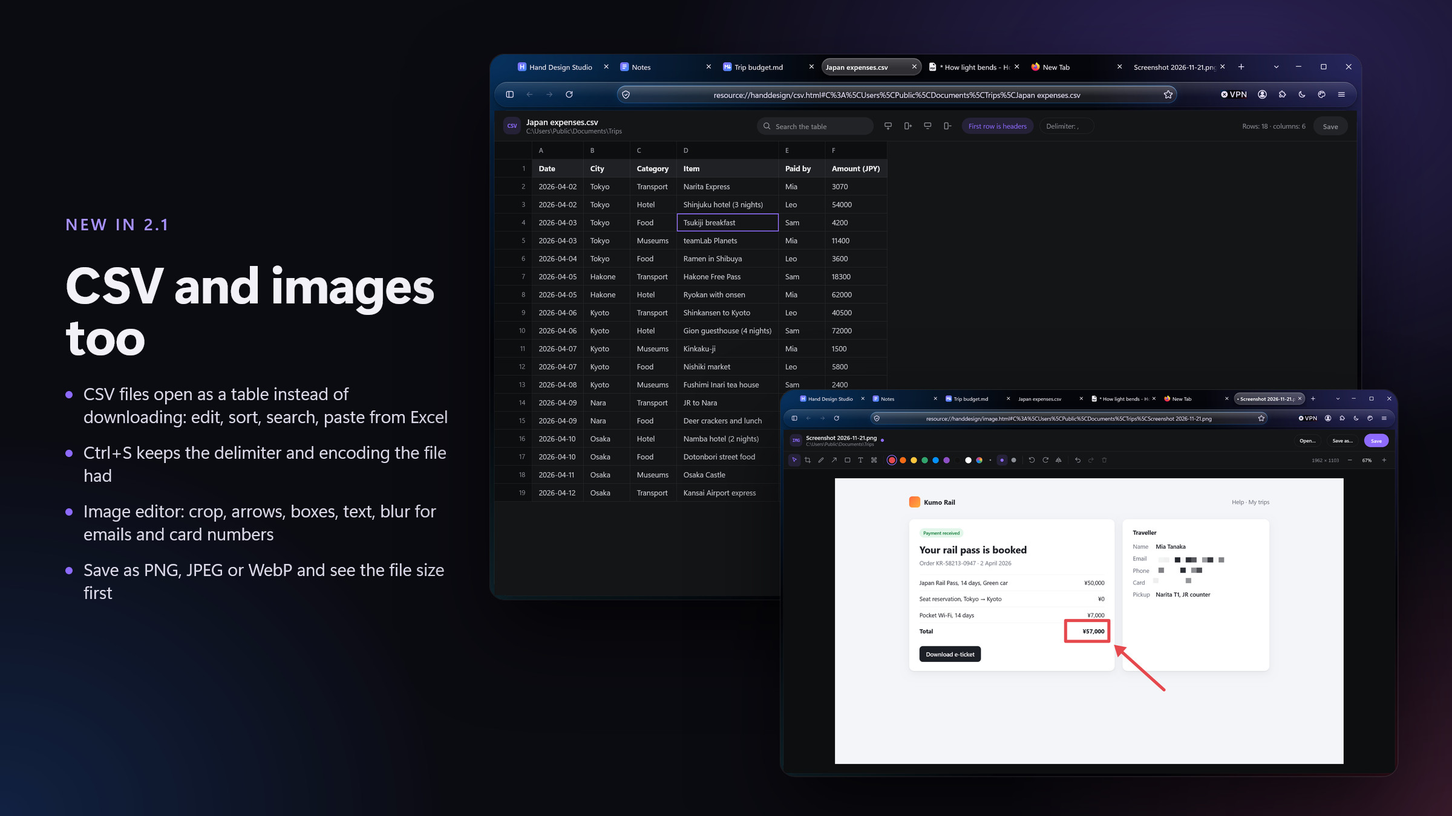
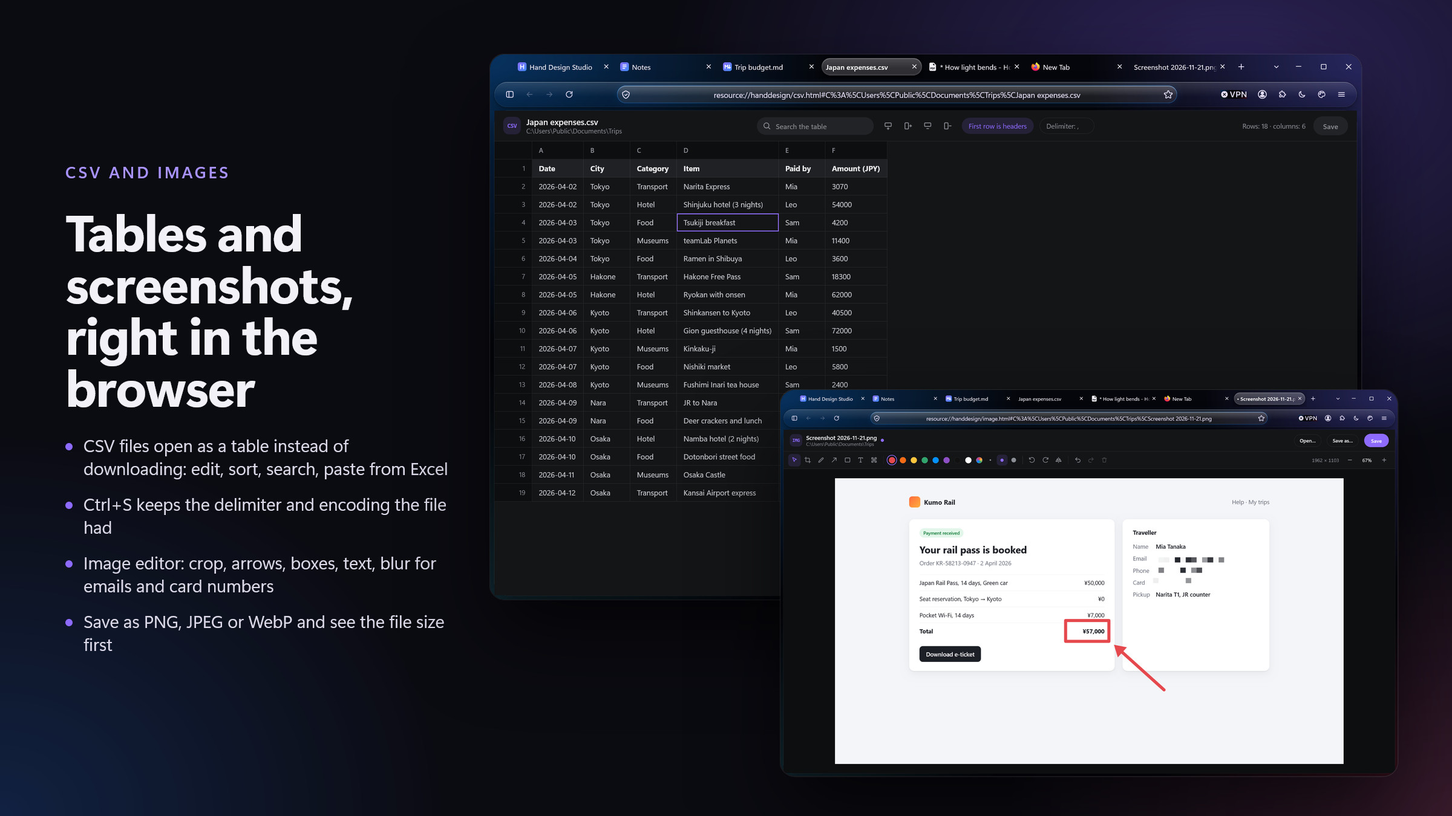
Add files via upload

Changed region(s): [[0.0312, 0.2489, 0.3125, 0.7778], [0.0625, 0.1867, 0.1562, 0.2178]]

diff --git a/release-notes/firefox/v3.0.0.md b/release-notes/firefox/v3.0.0.md
@@ -1,0 +1,76 @@
+<div align="center">
+
+# Hand Design 3.0.0
+
+**A redesign for Floorp, Firefox and Firefox forks** · 2026-11-25
+
+![Hand Design](https://raw.githubusercontent.com/WiWaSu/Hand-Design---browsers-redesign-/main/docs/hero.jpg)
+
+</div>
+
+## Что нового / What's new
+
+**English summary:** Notes can import from Notion (Markdown & CSV export), Evernote (.enex), Google Keep (Google Takeout) and any folder of Markdown files such as an Obsidian vault or a Joplin export. Imported notes land in their own folder under Import, links between pages turn into [[links]], images and attachments come along, tags and dates become note properties. The quick switcher (Ctrl+O) got a proper look, and a note with properties now opens with them shown as a card instead of raw text. The password manager opens as a compact window next to the button you pressed instead of a separate tab: search, copy, show, edit, add and delete passwords, with an optional primary password and a lock button. Now Bar hides while the video plays in a picture-in-picture window. Studio is redesigned: sections in a sidebar, search across all settings, a theme gallery, plain-language labels and hints, and a live preview on the side that shows every change and highlights where the hovered setting lives in the window. Every theme now has its own icon pack (24 in all) that redraws every icon in the browser and in Hand Design; any pack can be used with any theme (Studio → Icons), and it switches instantly.
+
+- Импорт заметок: кнопка со стрелкой внизу списка заметок, рядом с «Сменить папку». Откуда можно забрать:
+  - Notion — экспорт «Markdown & CSV» (файл .zip). Страницы и подстраницы сохраняют вложенность, ссылки между ними становятся `[[ссылками]]`, длинные номера из названий убираются, базы данных превращаются в заметки с таблицей, картинки переносятся.
+  - Evernote — экспорт блокнота (файл .enex). Сохраняются оформление, списки, чекбоксы, таблицы, картинки и вложения, а также теги, даты создания и изменения и адрес источника.
+  - Google Keep — архив Google Takeout (файл .zip). Списки становятся чекбоксами, ярлыки — тегами, картинки переносятся, архивные заметки уходят в папку «Архив», закреплённые остаются закреплёнными. Удалённые заметки пропускаются.
+  - Папка с файлами .md — хранилище Obsidian, экспорт Joplin в Markdown и любые другие заметки в Markdown. Служебные папки вроде `.obsidian` не копируются.
+- Импортированное ложится в отдельную папку «Импорт/Notion», «Импорт/Evernote» и так далее. Повторный импорт идёт в новую папку и ничего не перезаписывает.
+- Быстрый переход по заметкам (`Ctrl+O`) получил нормальный вид: окно по центру с полем поиска и списком. Раньше список выводился без оформления внизу страницы.
+- Заметка со свойствами (`---` в начале файла) открывается с ними в виде карточки. Раньше курсор вставал в начало, и свойства показывались сырым текстом.
+- Менеджер паролей открывается компактным окном, а не отдельной вкладкой. Окно встаёт у края с той стороны, где нажата кнопка: ключ в боковой панели Floorp внизу справа — окно внизу справа, пункт «Пароли» в меню ☰ — вверху справа.
+  - Сверху поиск, ниже пароли для открытого сайта, потом все остальные. Пароль копируется прямо из списка.
+  - В карточке пароля: копирование логина и пароля, показ пароля, «Изменить», «Удалить» с подтверждением, переход на сайт.
+  - Кнопки в заголовке: добавить пароль, настройки паролей, «Развернуть» (полный менеджер во вкладке), закрыть. Размер окна меняется уголком и запоминается.
+  - Перед показом или копированием пароля браузер, как и раньше, просит пароль Windows.
+  - Пароли и так хранятся зашифрованными. По желанию можно задать основной пароль, тогда без него их не откроет ни другой браузер, ни другая программа на компьютере. Когда он задан, в заголовке появляется замок «Заблокировать».
+  - Окно берёт цвета, скругления и шрифт из темы. Выключается в Studio → Пароли.
+- Now Bar не появляется, если видео вынесено в маленькое окно «Картинка в картинке»: у этого окна свои кнопки.
+- Паки значков: у каждой из 24 тем свой набор, и он перерисовывает все значки браузера и Hand Design. Это панель и адресная строка, вкладки и кнопки окна, меню ☰ и меню правой кнопки, боковые панели Firefox и Floorp, загрузки, разрешения сайтов, настройки и дополнения, окно паролей, Now Bar, заметки, таблицы, редактор картинок, просмотрщик PDF.
+  - У главных значков (ключ, замок, дом, поиск, настройки, звезда, папка, корзина, колокольчик, глаз, глобус, щит, стрелки, часы, загрузки и других, около 55) четыре разных рисунка. Ключ бывает классическим, горизонтальным с квадратными бородками, вертикальным с круглым ушком или ключом-картой. Настройки — шестерёнкой, гайкой, цветком или ползунками. Часы — циферблатом или секундомером. Каждая тема берёт свой рисунок и рисует его в своём стиле.
+  - Паки отличаются формой, а не только цветом и толщиной:
+    - Retro 98 — пиксельные с тенью, Terminal — пиксельные в рамке-скобках, Nothing — точечная матрица;
+    - Cyberpunk — граненые с наклоном, Arctic — граненые «кристаллы» в шестиугольнике;
+    - One UI и Latte — залитые с прорезями, High Contrast — вырезаны из плитки;
+    - Material, Sakura, Mint и Ocean — на плитках: квадратной, круглой, шестиугольной, скруглённой;
+    - macOS — в контурной рамке, Rosé — в тонком круге, Fjord — в рамке-скобках;
+    - Night Drive, Midnight и Synthwave — полые двойные линии (у Synthwave ещё и с наклоном), Ember — наклонные залитые;
+    - Paper — нарисованы карандашом, Forest — от руки и с шестиугольниками, Aero — со стеклянным ореолом.
+  - У VPN у каждого состояния свой значок: выключен, включён, пауза, сайт-исключение, ошибка.
+  - Ещё четыре набора, нарисованных от руки: «Набросок» (двойная неровная линия со штриховкой), «Маркер» (толстый фломастер), «Каракули» (три небрежных прохода), «Кисть» (жирный мазок с тонким вторым). Их можно поставить к любой теме.
+  - В пак попали и значки диалогов и служебных страниц: категории настроек и дополнений, значки контейнеров, менеджер паролей Firefox, страница защиты, вкладки «Сведений о странице», сортировка в таблицах.
+  - Любой пак можно поставить к любой теме: Studio → Значки. Не выбрано — пак текущей темы. Значки меняются сразу, без перезапуска, предпросмотр показывает пак при наведении на карточку.
+  - Не меняются только логотипы, анимации загрузки, значки сайтов и значки рабочих пространств, которые вы выбираете сами.
+- Полоска загрузки страницы своя у каждой темы: пиксельные блоки Retro 98, сегменты Terminal, точки Nothing с красной головой, волна Ocean, огонь Ember, неон Synthwave, бегущие косые полосы Cyberpunk и другие. Любую можно поставить к любой теме: Studio → Плашки и полоски → Вид полоски загрузки.
+- Studio переделана.
+  - Слева меню по разделам: Внешний вид, Окно браузера, Новая вкладка, Функции, Система. У каждого пункта значок из текущего пака, точка рядом значит, что в разделе что-то изменено.
+  - Сверху поиск: «прозрач», «вкладк», «шрифт» оставляют только подходящие настройки.
+  - Справа предпросмотр: уменьшенное окно браузера с вкладками, адресной строкой, закладками, новой вкладкой, меню правой кнопки и Now Bar. Он не уезжает при прокрутке. Наведите на настройку, и в окне подсветится место, к которому она относится. Наведите на тему или готовый набор, и окно примерит его, не меняя настоящий браузер.
+  - Темы выбираются из галереи: на каждой карточке маленькое окно в цветах темы.
+  - Все названия и подсказки переписаны простыми словами, про каждую настройку сказано, что именно она меняет. Настройки, которые лежали не на месте, переехали: прозрачность и скругление меню теперь в «Меню», кнопки панели и закладки — в «Панель и кнопки», Now Bar, плашка звонка и полоска загрузки — в «Плашки и полоски». Отдельная кнопка «Без скруглений» вверху убрана, переключатель остался в «Форме».
+  - GitHub, сохранение и загрузка настроек и «Сбросить всё» собраны в меню «⋯» в углу.
+  - Сохранённые настройки не сбрасываются: все прежние пункты на месте.
+- Настройки браузера (about:preferences): у выбранного раздела слева больше нет полоски, линия между меню и страницей убрана, меню стало шире, и длинные названия разделов не переносятся.
+
+## Скриншоты / Screenshots
+
+| | |
+|---|---|
+| ![Notes](https://raw.githubusercontent.com/WiWaSu/Hand-Design---browsers-redesign-/main/docs/feature-notes.jpg) | ![Theme details](https://raw.githubusercontent.com/WiWaSu/Hand-Design---browsers-redesign-/main/docs/feature-details.jpg) |
+| ![PDF and Markdown](https://raw.githubusercontent.com/WiWaSu/Hand-Design---browsers-redesign-/main/docs/feature-docs.jpg) | ![24 themes](https://raw.githubusercontent.com/WiWaSu/Hand-Design---browsers-redesign-/main/docs/themes.jpg) |
+
+## Установка / Install
+
+1. Скачайте **Hand-Design-Setup-v3.0.0.exe** ниже и запустите. / Download **Hand-Design-Setup-v3.0.0.exe** below and run it.
+2. Выберите тему и браузеры, нажмите «Установить». / Pick a theme and browsers, press Install.
+3. Перезапустите браузер. / Restart the browser.
+
+Если SmartScreen пишет «Система Windows защитила ваш компьютер», нажмите «Подробнее» → «Выполнить в любом случае»: у файла нет платной подписи. / If SmartScreen says "Windows protected your PC", click "More info" → "Run anyway": the file is not signed with a paid certificate.
+
+Уже стоит более старая версия — запустите установщик и нажмите «Обновить», настройки сохранятся. / Already installed — run the installer and press Update, your settings are kept.
+
+Без .exe: **Hand-Design-v3.0.0.zip** — распакуйте и запустите **Setup.cmd**. / Without the .exe: unzip **Hand-Design-v3.0.0.zip** and run **Setup.cmd**.
+
+[Все изменения / Full changelog](https://github.com/WiWaSu/Hand-Design---browsers-redesign-/blob/main/firefox/CHANGELOG.md)

diff --git a/release-notes/chrome/v1.0.0.md b/release-notes/chrome/v1.0.0.md
@@ -1,0 +1,46 @@
+<div align="center">
+
+# Hand Design for Chromium 1.0.0
+
+**A redesign for Chrome, Edge, Brave, Vivaldi, Opera and Yandex Browser** · 2026-11-23
+
+</div>
+
+## Что нового / What's new
+
+**Заметки, документы и 10 языков.** Из Firefox-версии 2.x перенесены заметки, редакторы файлов, детали тем и переводы.
+*English: Notes like in Obsidian, Markdown, CSV and image editors, Documents page, theme details with previews, 10 interface languages, theme picture behind the tab strip, update check at every start.*
+
+### Добавлено
+- Заметки (кнопка в быстрой панели, команда «Заметки Hand Design» на `chrome://extensions/shortcuts`). То же приложение, что в Firefox-версии: Live Preview, дерево папок, поиск, закреплённые, `[[ссылки]]` и упоминания, `#теги`, блоки `[!note]`, картинки, граф связей, быстрый переход `Ctrl+O`, заметка дня и шаблоны. Каждая заметка — обычный файл `.md` в папке, которую вы выберете; её можно открыть и в Obsidian. После перезапуска браузера Chrome один раз спросит разрешение на папку — кнопка «Открыть прошлую папку».
+- Редактор Markdown. Файл `.md`, открытый с компьютера, показывается оформленным: содержание, просмотр, рядом, текст, таблицы правятся прямо в документе. Файл, открытый через «Документы», сохраняется на место по `Ctrl+S`. Файл, открытый из проводника, в первый раз сохраняется через «Сохранить как»: Chrome не даёт записать в него иначе.
+- Редактор таблиц CSV. Файлы `.csv` и `.tsv` открываются таблицей вместо скачивания, с диска и из интернета. Кодировка UTF-8 или Windows-1251 сохраняется как была.
+- Редактор картинок: обрезка, поворот, стрелки, рамки, текст, размытие, сжатие и смена формата. Открывается для картинок с компьютера и через «Редактировать картинку» в меню правой кнопки по любой картинке на странице.
+- Страница «Документы» (кнопка в быстрой панели): новый документ, новая таблица, картинка, открыть файл, недавние.
+- Studio → «Детали тем»: часы, фон новой вкладки и поиск можно взять из любой темы. У каждого варианта есть картинка.
+- Studio → «Документы», «Заметки», «Заметки — оформление»: те же настройки, что в Firefox-версии.
+- 10 языков интерфейса вместо двух: русский, английский, украинский, немецкий, французский, испанский, португальский, польский, турецкий, китайский. Словари общие с Firefox-версией.
+- Тема-пакеты рамки: под полосой вкладок теперь картинка — фон новой вкладки этой темы (сияние iOS, огни Night Drive и так далее). Видна, если рамка покрашена тема-пакетом, а не помощником.
+
+### Изменено
+- Проверка обновлений идёт при каждом запуске браузера, а не только раз в сутки.
+- Нужен Chrome 140 или новее (или браузер на его основе). Новые разрешения: «Загрузки» (чтобы открывать CSV вместо скачивания) и меню правой кнопки.
+
+## Скриншоты / Screenshots
+
+| | |
+|---|---|
+| ![Новая вкладка / New tab](https://raw.githubusercontent.com/WiWaSu/Hand-Design---browsers-redesign-/main/docs/chrome-newtab.jpg) | ![История поиска / Search history](https://raw.githubusercontent.com/WiWaSu/Hand-Design---browsers-redesign-/main/docs/chrome-search.jpg) |
+| ![Быстрая панель / Quick panel](https://raw.githubusercontent.com/WiWaSu/Hand-Design---browsers-redesign-/main/docs/chrome-panel.jpg) | ![Now Bar](https://raw.githubusercontent.com/WiWaSu/Hand-Design---browsers-redesign-/main/docs/chrome-nowbar.jpg) |
+| ![PDF](https://raw.githubusercontent.com/WiWaSu/Hand-Design---browsers-redesign-/main/docs/chrome-pdf.jpg) | ![Studio](https://raw.githubusercontent.com/WiWaSu/Hand-Design---browsers-redesign-/main/docs/chrome-studio.jpg) |
+
+## Установка / Install
+
+1. Скачайте **Hand-Design-Chromium-Setup-v1.0.0.exe** ниже и запустите. Без .exe: распакуйте **Hand-Design-Chromium-v1.0.0.zip** и запустите **Setup.cmd**. / Download **Hand-Design-Chromium-Setup-v1.0.0.exe** below and run it. Without the .exe: unzip **Hand-Design-Chromium-v1.0.0.zip** and run **Setup.cmd**.
+2. Выберите тему и браузеры, нажмите «Установить». / Pick a theme and browsers, press Install.
+3. В браузере один раз: страница расширений → «Режим разработчика» → «Загрузить распакованное» → Ctrl+V → «Выбрать папку». / Once in the browser: extensions page → Developer mode → Load unpacked → Ctrl+V → Select folder.
+4. Только для Edge, Opera, Яндекса или если хочется картинку темы под вкладками: так же загрузите папку `frame`. В Chrome, Brave и Chromium цвет верха ставится сам. / Edge, Opera, Yandex, or if you want the theme picture behind the tabs: load the `frame` folder the same way. Chrome, Brave and Chromium get the frame color automatically.
+
+Уже стоит — запустите установщик новой версии и нажмите ⟳ на карточке Hand Design на странице расширений, настройки сохранятся. / Already installed — run the new installer and press ⟳ on the Hand Design card, settings are kept.
+
+[Все изменения / Full changelog](https://github.com/WiWaSu/Hand-Design---browsers-redesign-/blob/main/chrome/CHANGELOG.md)

diff --git a/README.md b/README.md
@@ -1,5 +1,6 @@
 <div align="center">
 
+<img src="docs/hero.jpg" alt="Hand Design" width="100%">
 
 # Hand Design
 
